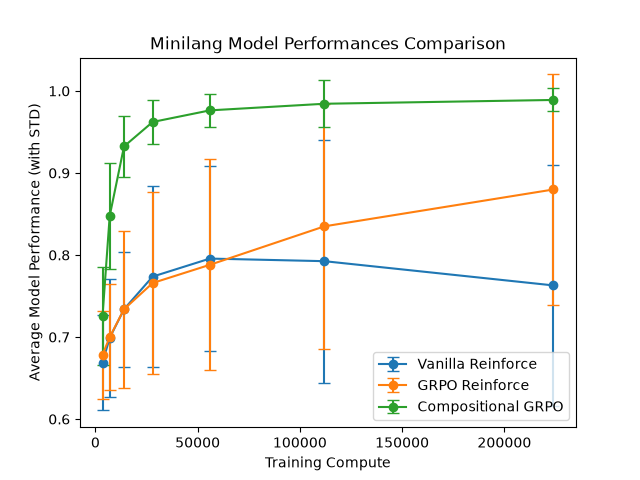
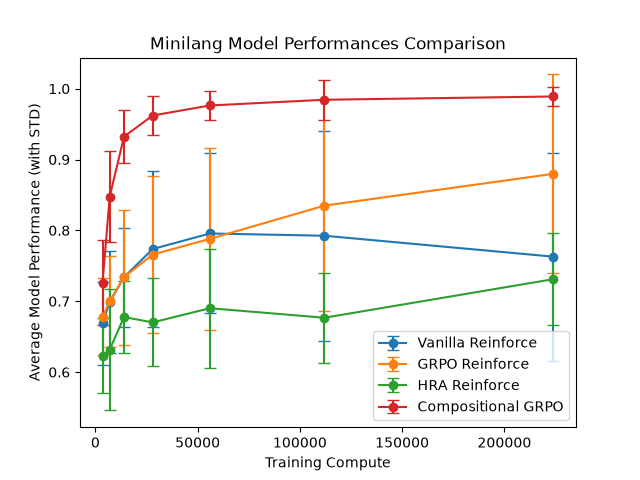
Visualize HRA Results

diff --git a/minilang/visualize.py b/minilang/visualize.py
@@ -6,6 +6,7 @@ def main(args):
     horizons = []
     vanilla_means, vanilla_stds = [], []
     grpo_means, grpo_stds = [], []
+    hra_means, hra_stds = [], []
     compositional_means, compositional_stds = [], []
 
     horizon = args.min_horizon
@@ -21,6 +22,11 @@ def main(args):
         grpo_rewards = np.mean(grpo_data, axis=1)
         grpo_means.append(np.mean(grpo_rewards))
         grpo_stds.append(np.std(grpo_rewards))
+
+        hra_data = np.load(f"minilang/results/{horizon}_compute_units/hra_rewards.npy")
+        hra_rewards = np.mean(hra_data, axis=1)
+        hra_means.append(np.mean(hra_rewards))
+        hra_stds.append(np.std(hra_rewards))
 
         compositional_data = np.load(f"minilang/results/{horizon}_compute_units/compositional_rewards.npy")
         compositional_rewards = np.mean(compositional_data, axis=1)
@@ -47,6 +53,15 @@ def main(args):
         fmt='-o',
         capsize=4,
         label='GRPO Reinforce'
+    )
+
+    plt.errorbar(
+        horizons,
+        hra_means,
+        yerr=hra_stds,
+        fmt='-o',
+        capsize=4,
+        label='HRA Reinforce'
     )
 
     plt.errorbar(
